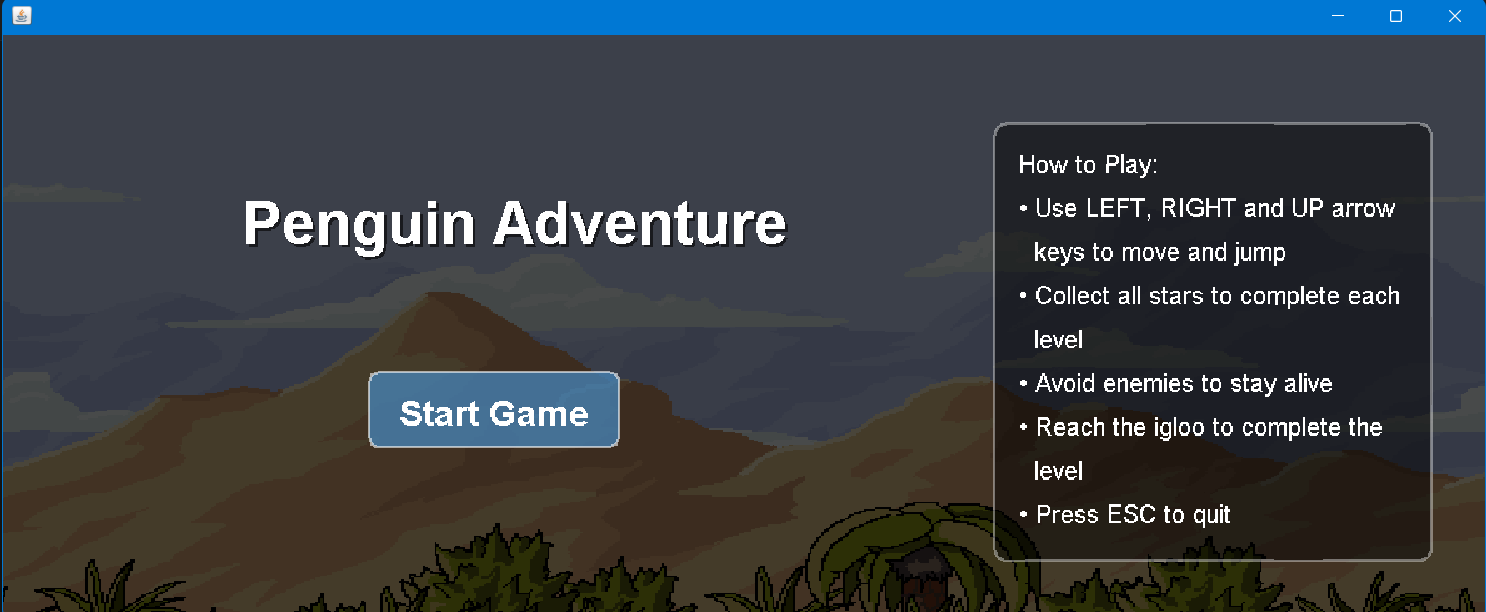
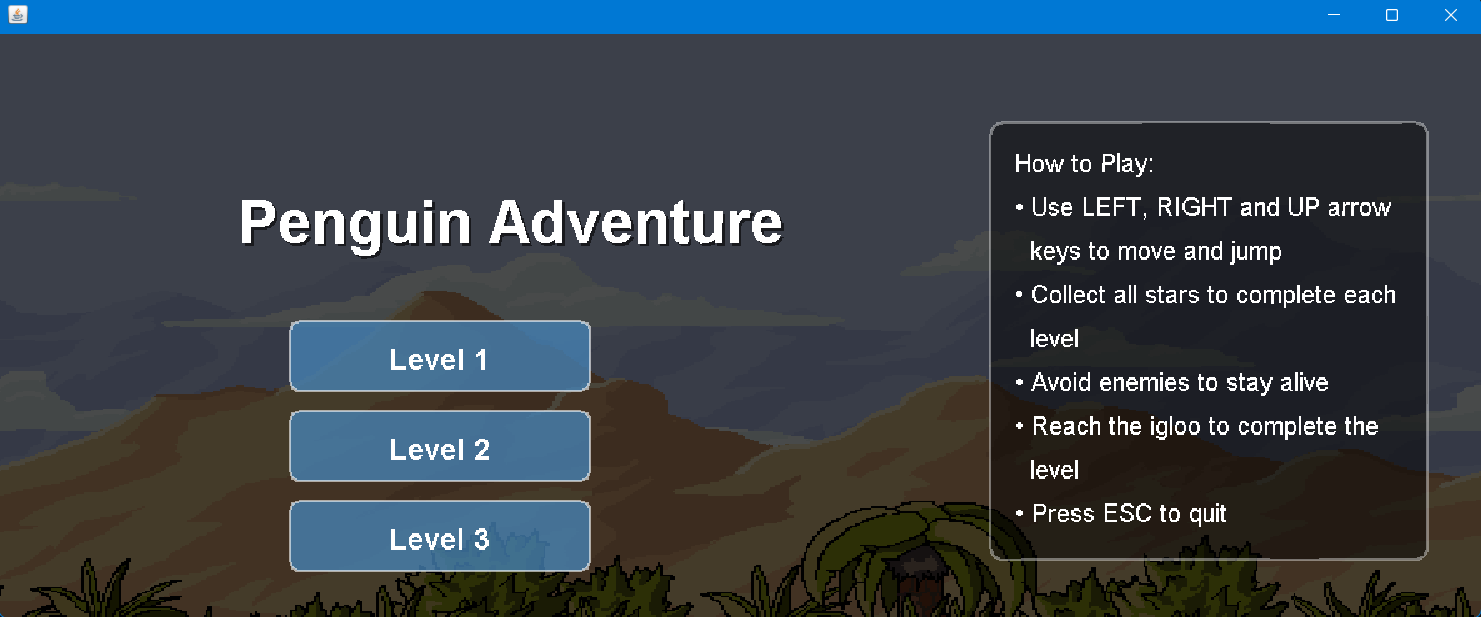
docs: add level 3 screenshot to README gallery
Adds docs/media/level3.png and expands the screenshots table from
3 columns to 4 so all three playable levels are shown.
Also refreshes the menu.png thumbnail.

diff --git a/README.md b/README.md
@@ -11,9 +11,9 @@ https://github.com/user-attachments/assets/4a86e10f-6561-4cc2-b6f8-9db6b5eb91d7
 
 ## Screenshots
 
-| Main menu | Level 1 | Level 2 |
-|---|---|---|
-| ![Menu](docs/media/menu.png) | ![Level 1](docs/media/level1.png) | ![Level 2](docs/media/level2.png) |
+| Main menu | Level 1 | Level 2 | Level 3 |
+|---|---|---|---|
+| ![Menu](docs/media/menu.png) | ![Level 1](docs/media/level1.png) | ![Level 2](docs/media/level2.png) | ![Level 3](docs/media/level3.png) |
 
 ## Controls
 